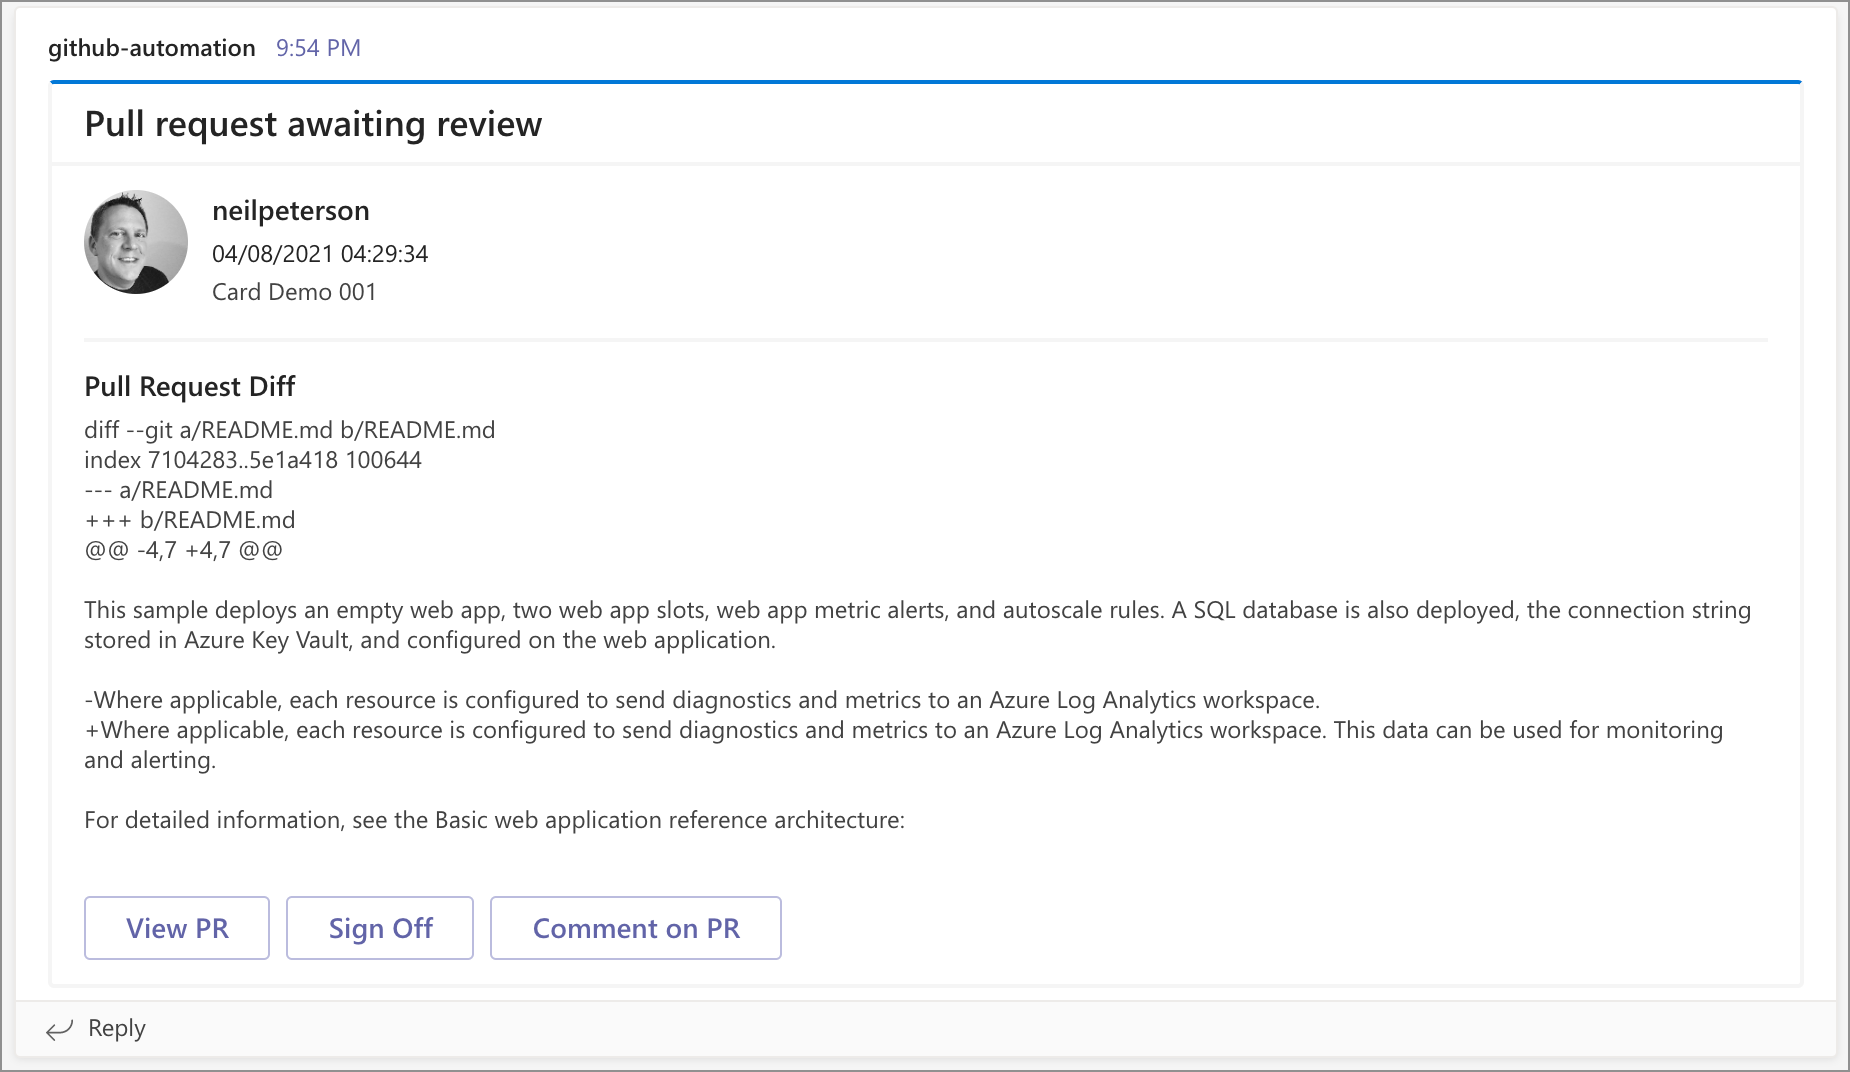
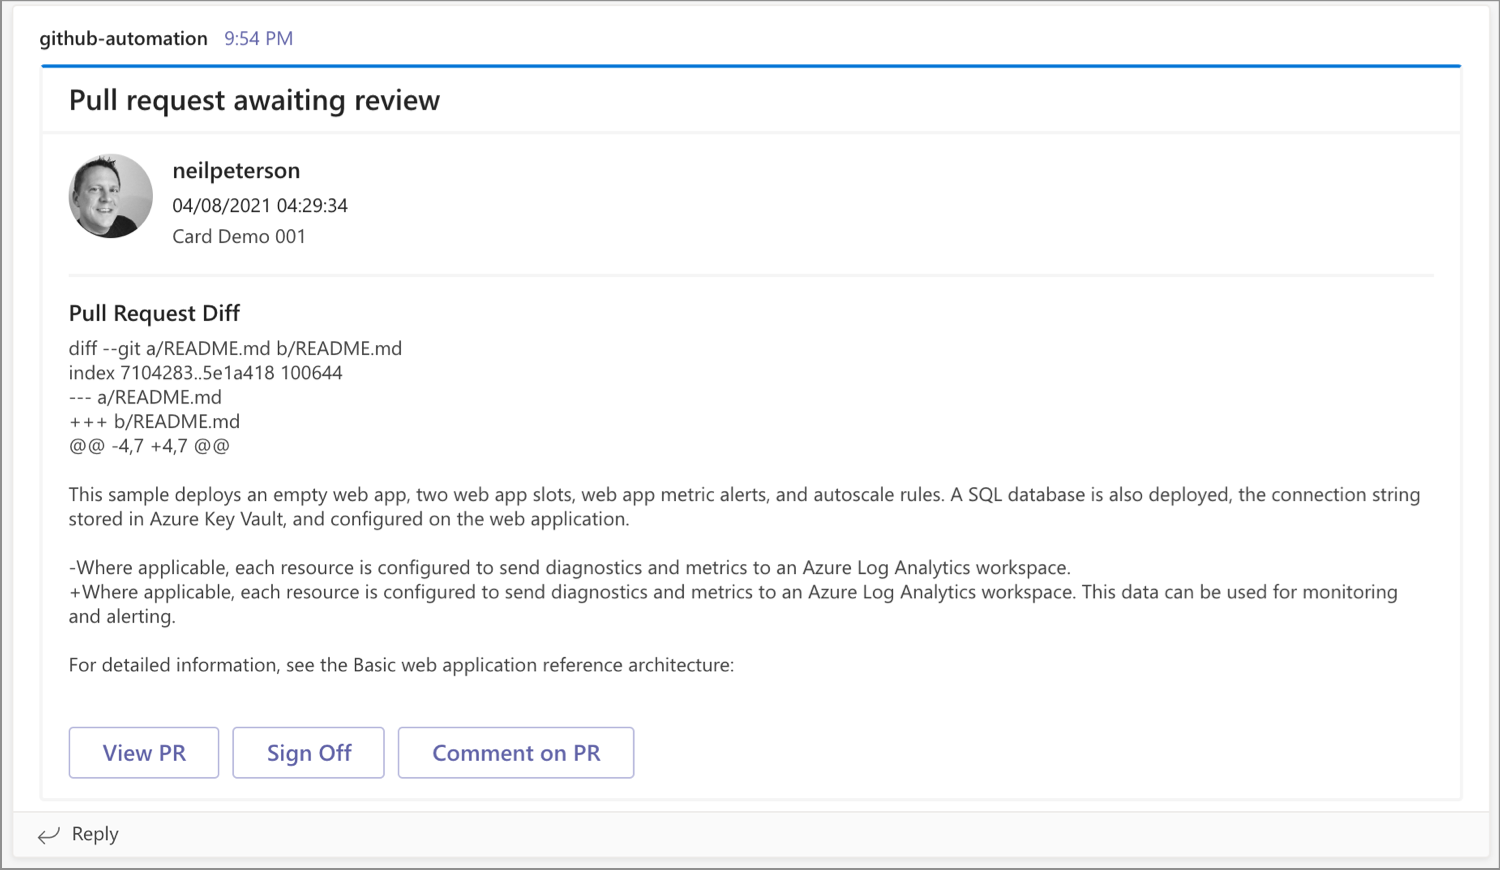
docs

diff --git a/README.md b/README.md
@@ -2,7 +2,7 @@
 
 This solution provides an MS Teams notification when scheduled or expected pull requests have not been addressed after a pre-determined time. The notification includes details about the pull request, including diff information. The notification also provides automation for adding a pre-determined / fixed comment to the pull request.
 
-![](images/card-sample-two.png)
+![](images/card-sample.png)
 
 ## Solution components
 
@@ -42,7 +42,7 @@ These values are needed when deploying the solution. At deployment time, you are
 Create a resource group for the deployment.
 
 ```azurecli
-az group create --name github-pr-teams-notification --location eastus
+az group create --name github-pr-teams-notification-006 --location eastus
 ```
 
 Run the following command to initiate the deployment. When prompted, enter the value for each parameter.
@@ -65,3 +65,13 @@ az deployment group create \
 ## Configure WebHook on Function
 
 Once the deployment has completed, retrieve the Function webhook address from the comment function, and add this to the Teams notification function's application configuration.
+
+To get the function webhook address, navigate to the **github-pr-teams-comment** function and copy the function URL.
+
+![](images/function-url.png)
+
+Next, navigate to the function app, select configuration, and select **New application setting**. Enter **CommentFunctionWebhook** for the name and paste in the webhook address for the value.
+
+![](images/app-setting.png)
+
+Click **OK**, **Save**, and **Continue**.
